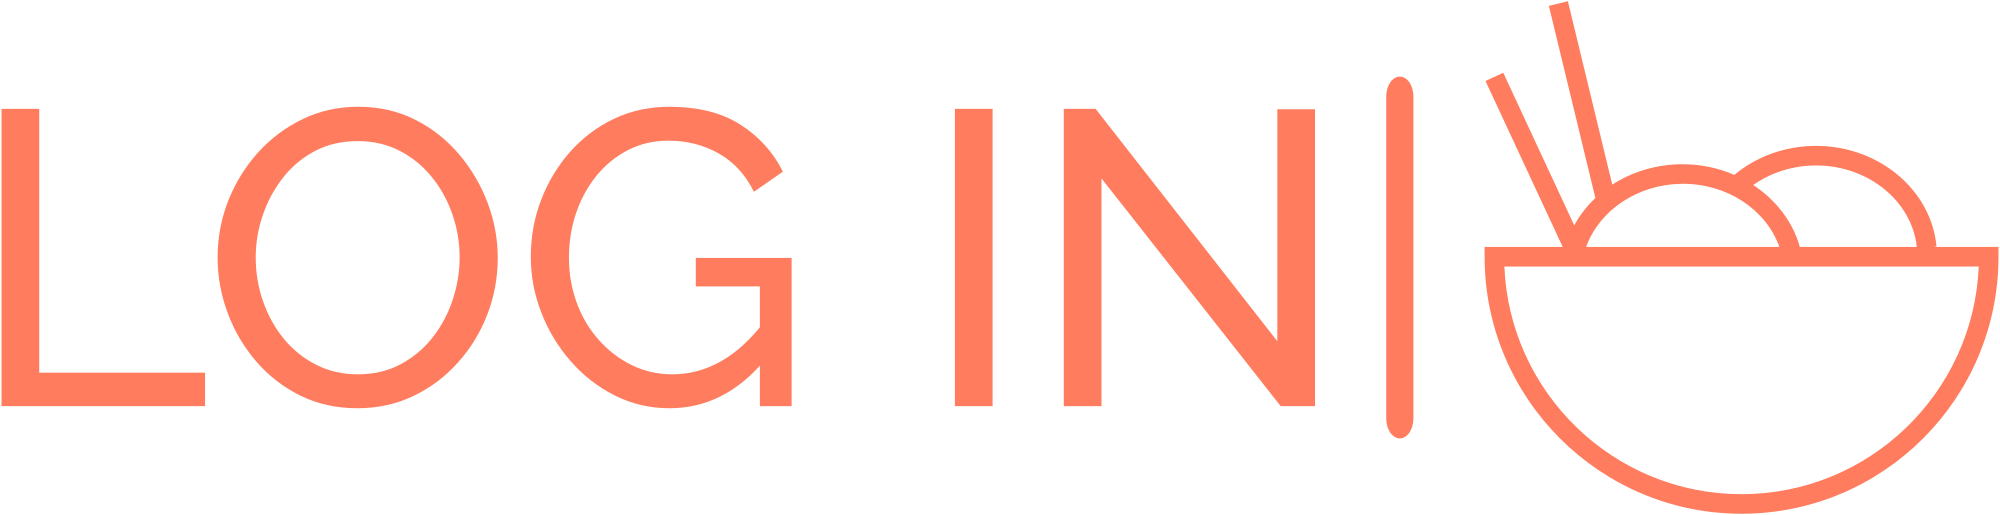
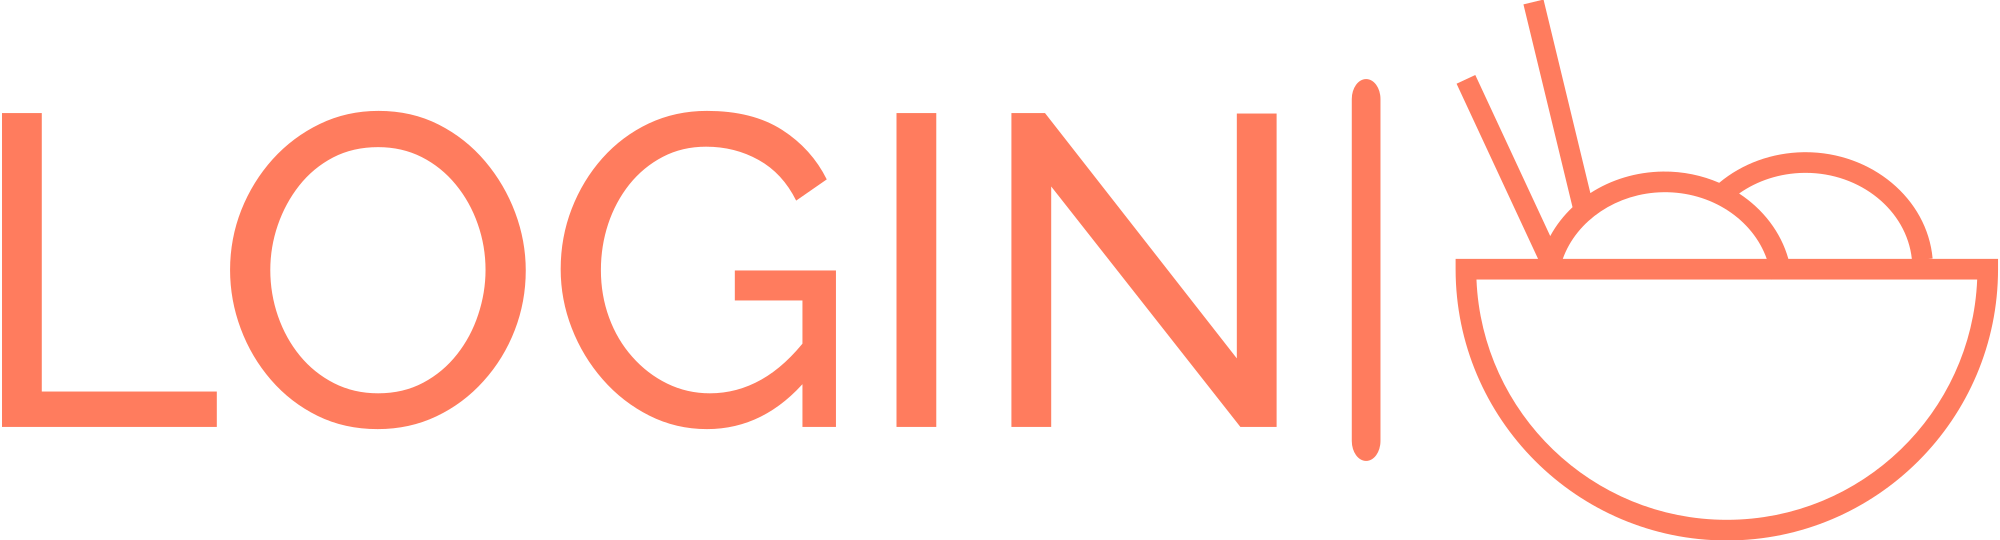
"Updated login formatting"

diff --git a/client/src/components/Login.jsx b/client/src/components/Login.jsx
@@ -1,6 +1,7 @@
 import { useEffect } from 'react'
 import { Form, useActionData, useNavigate, Link } from 'react-router-dom'
 import { setToken } from '../utilities/helpers/common'
+import textlogin from '../images/text-login.png'
 
 export default function Login(){
   const res = useActionData()
@@ -9,19 +10,21 @@ export default function Login(){
   useEffect(() => {
     if (res?.status === 202){
       setToken(res.data.token)
-      navigate('/bread')
+      navigate('/recipes')
     }
   }, [res, navigate])
 
   return (
     <>
       <Form className='form' method="POST">
-        <input type="email" name="email" placeholder='Email' />
-        <input type="password" name="password" placeholder="Password" />
-        <button className='submit-btn' type="submit">Login</button>
+        <img src={textlogin} className="textlogin"></img>
+        <input type="email" name="email" placeholder='Email' /><br />
+        <input type="password" name="password" placeholder="Password" /><br />
+        <button className='registerbtn' type="submit">Login</button>
         {res && <p className='danger'>{res.data.message}</p>}
       </Form>
       <p>Don't have an account? <Link to="/register"><span className='register-link'> Register here</span></Link></p>
+      {res && <p className='danger'>{res.data.message}</p>}
     </>
   )
 }

diff --git a/client/src/styles/global/forms.scss b/client/src/styles/global/forms.scss
@@ -1,32 +1,41 @@
 .form {
   display: flex;
   flex-direction: column;
+  align-items: center;
   width: 400px;
   max-width: 100%;
   margin: 2rem auto;
+
   input, textarea {
-    width:100%;
-    border: none;
-    border-bottom: 1px solid red;
-    padding: 10px 0;
-    background-color: transparent;
-    color: #FF7C5E;
-    outline: none !important;
+    @extend .form-input;
   }
+  
   button {
     margin-top: 1rem;
   }
 }
 
-.submit-btn {
+.danger{
+  color: red;
+  width: 50%;
+}
+
+.registerbtn{
   background-color: #FF7C5E;
-  color: #FEE8B0;
-  border: 1px solid #FF7C5E;
-  &:hover{
-    background-color: transparent;
-    color: #FF7C5E;
-    border: 1px solid #FF7C5E;
-  }
+  border-radius: 5px;
+  height: 50px;
+  width: 150px;
+  font-size: 20px;
+  color: white;
+  border:none;
+}
+
+.registerbtn:hover {
+  background-color: darkblue; /* Change color on hover */
+}
+
+.registerbtn:active {
+  transform: translate(1px, 1px); /* Move button 2px down on click */
 }
 
 p {
@@ -43,4 +52,11 @@ p {
   a, span {
     text-decoration: none;
   }
+}
+
+.textlogin {
+  width: 50%;
+  margin-bottom: 80px;
+  margin-top: 50px;
+  align-items: center;
 }

diff --git a/client/src/components/Register.jsx b/client/src/components/Register.jsx
@@ -1,5 +1,5 @@
 import { useEffect } from "react";
-import { Form, useActionData, useNavigate } from "react-router-dom";
+import { Form, useActionData, useNavigate, Link } from "react-router-dom";
 import textregister from '../images/text-register.png'
 
 export default function Register() {
@@ -26,6 +26,7 @@ export default function Register() {
         <input className="registerpass" type="password" name="password" placeholder='Password' /><br />
         <input className="registerpasscon" type="password" name="passwordConfirmation" placeholder='Confirm password' /><br /><br />
         <button className="registerbtn" type="submit">Register</button><br /><br />
+        <p>Already have an account? <Link to="/login"><span className='register-link'> Login</span></Link></p>
         {res && <p className="danger">{res.data.message}</p>}
       </Form>
     </>

diff --git a/client/src/utilities/actions/auth.js b/client/src/utilities/actions/auth.js
@@ -9,7 +9,12 @@ export async function registerUser(request) {
 
 }
 
-
+export async function loginUser(request){
+  const data = await formToObj(request)
+  return await axios.post('/api/login', data, {
+    validateStatus: () => true
+  })
+}
 
 async function formToObj(request) {
   const formData = await request.formData()

diff --git a/client/src/styles/components/Home.scss b/client/src/styles/components/Home.scss
@@ -15,12 +15,11 @@
 
 .info {
 
-  h5 {color: white;
+  h5, h6 {color: white;
   font-weight: bold;
   font-size: 25px;}
 
-  h6{color: rgb(200, 185, 185);
-    font-weight: bold;
+  h6 {
     font-size: 20px;
   }
 }
@@ -35,5 +34,4 @@
   align-items: center;
   justify-content: center;
   margin-top: 50px;
-
 }

diff --git a/client/src/styles/main.scss b/client/src/styles/main.scss
@@ -4,4 +4,5 @@
 @import './components/Home.scss';
 
 @import './components/RecipeIndex.scss';
-@import './components/Register.scss'
+@import './components/Register.scss';
+@import './global/forms.scss';

diff --git a/client/src/styles/components/Register.scss b/client/src/styles/components/Register.scss
@@ -22,6 +22,7 @@
 .textregister{
   width: 30%;
   margin-bottom: 80px;
+  margin-top: 80px;
 }
 
 .registerbtn{
